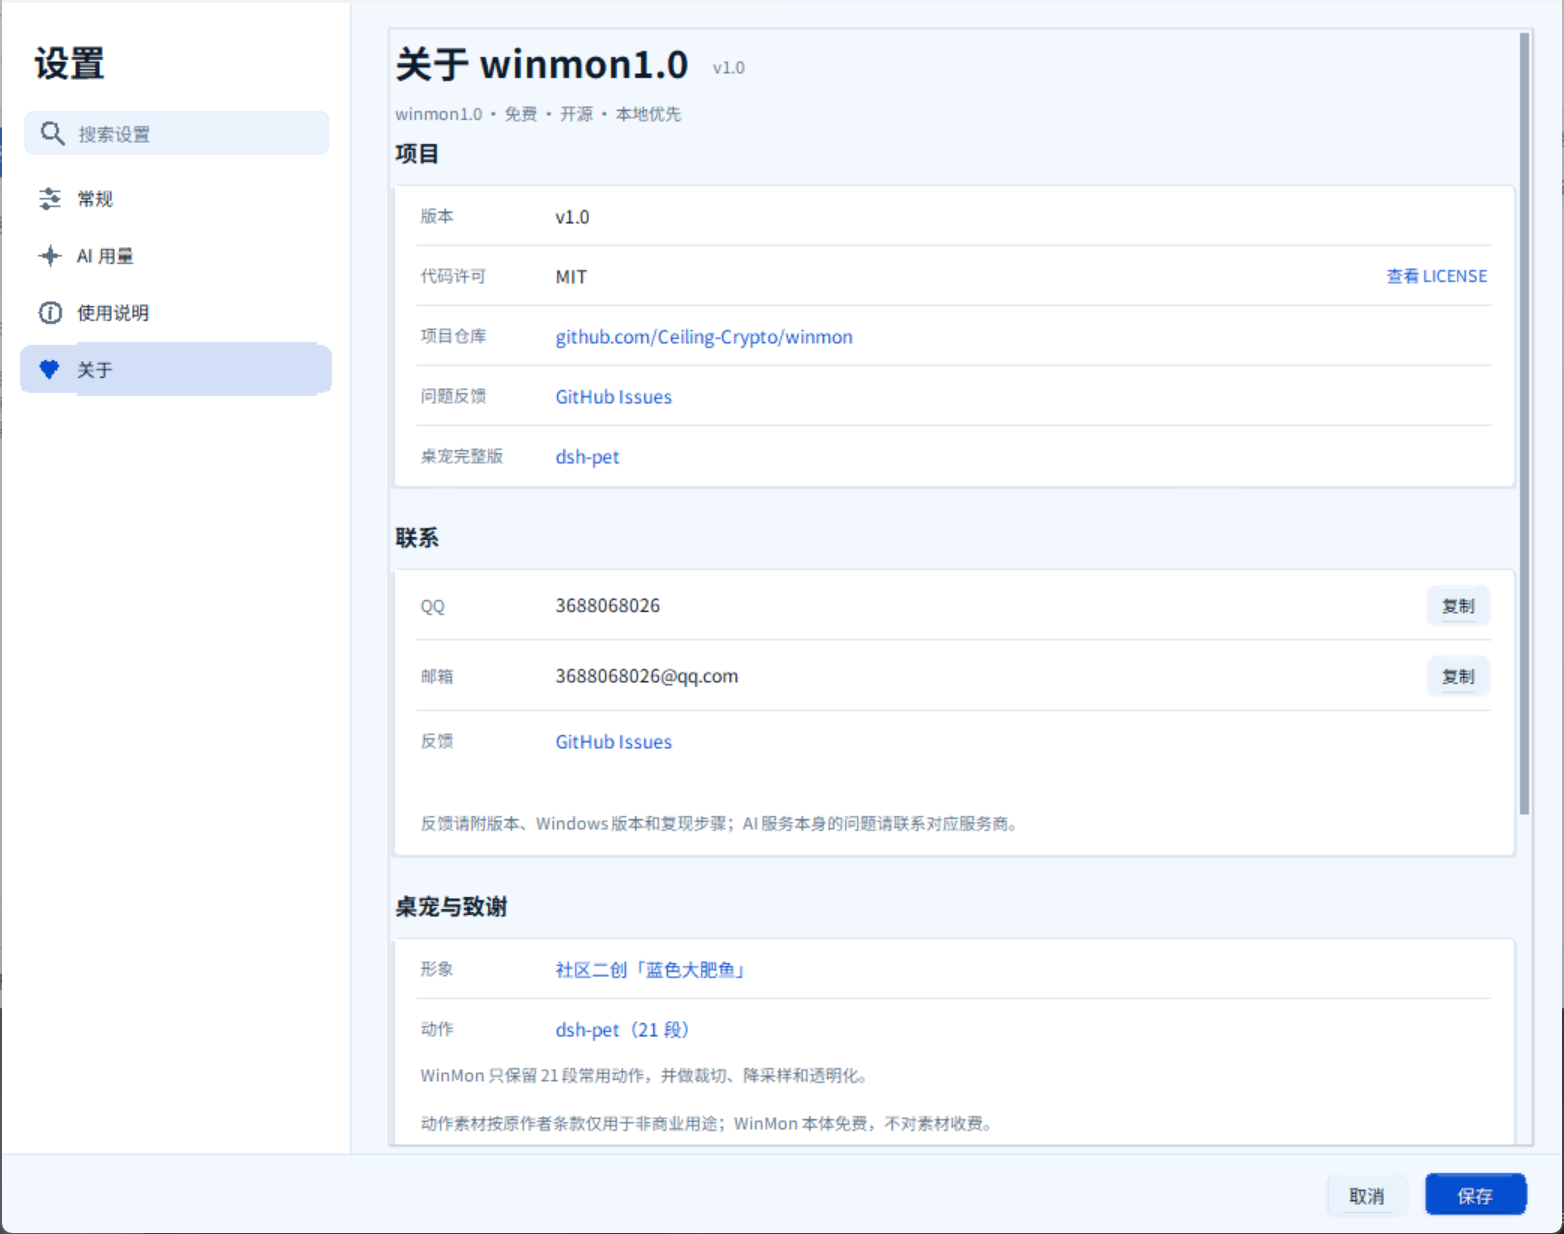
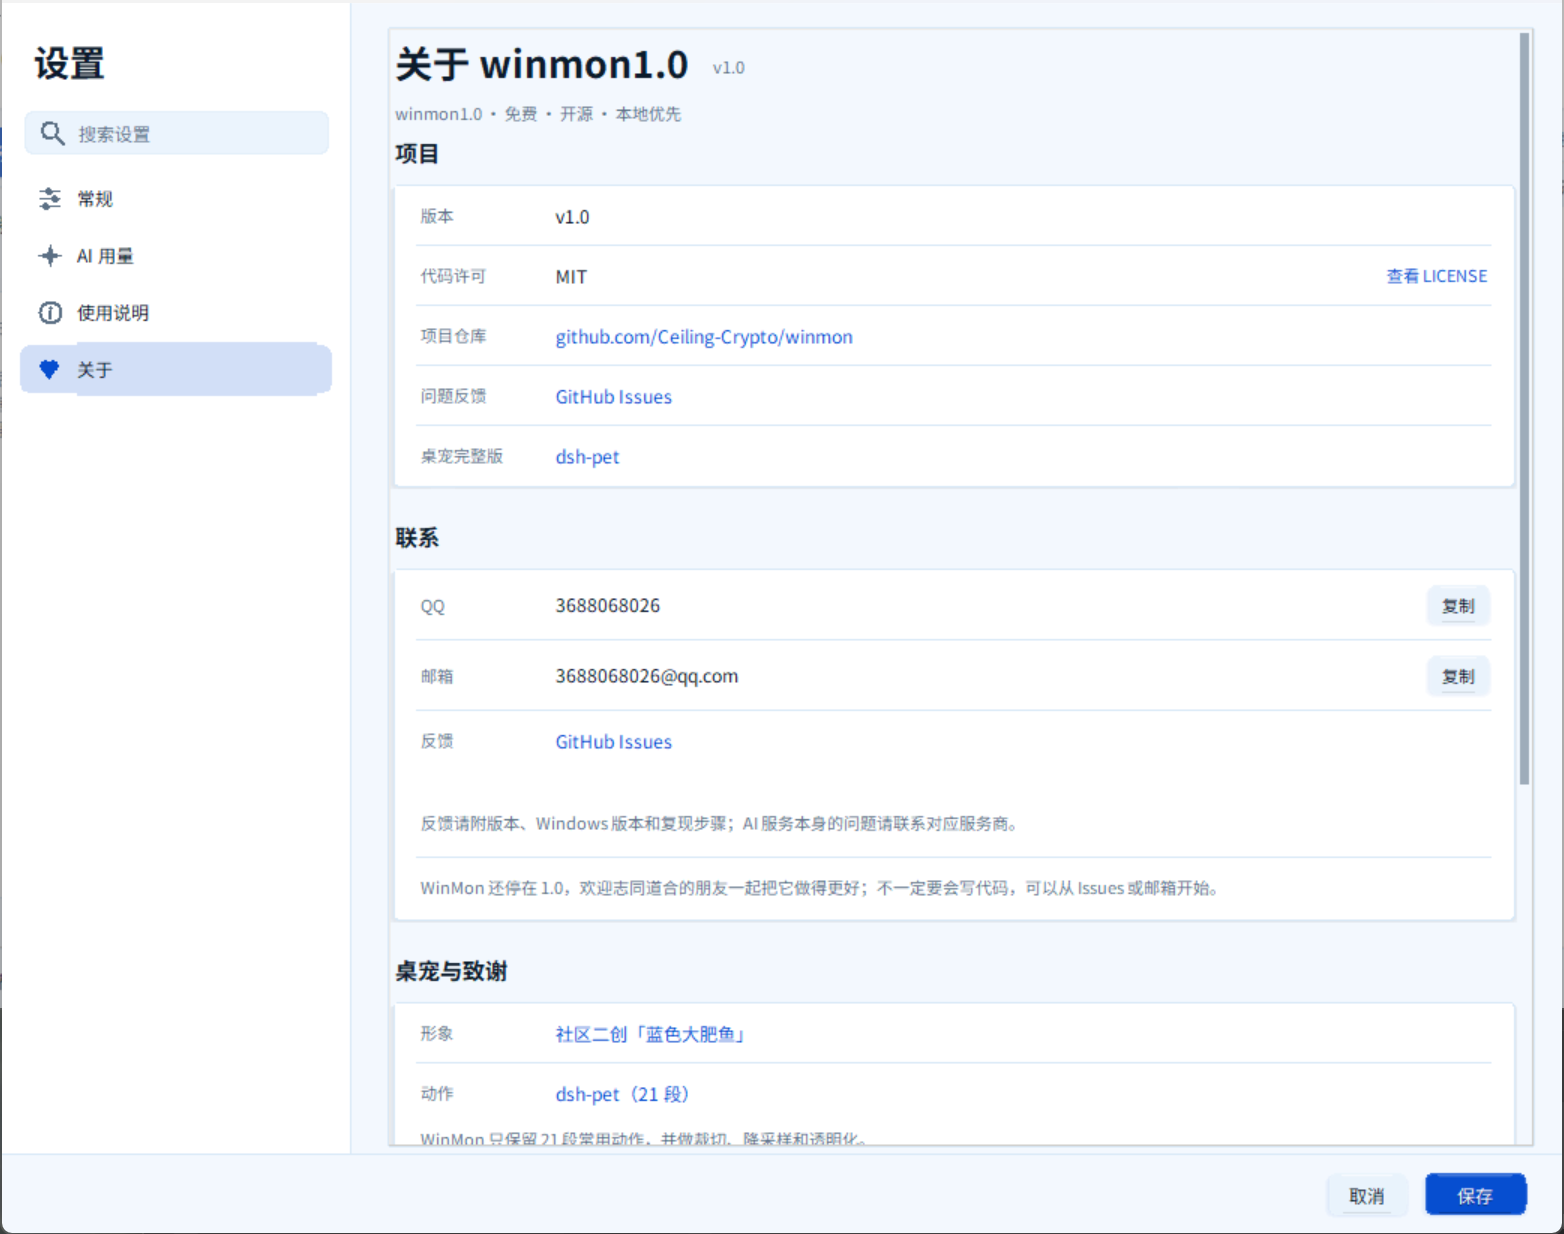
关于页：联系卡加入共建邀请

Changed region(s): [[0.2455, 0.8314, 0.6445, 0.9546], [0.2455, 0.7083, 0.7673, 0.8006]]

diff --git a/winmon.py b/winmon.py
@@ -9602,6 +9602,15 @@ class _AboutPanel:
             "When reporting a bug, include the version, Windows version and "
             "steps to reproduce. For issues with an AI service itself, "
             "contact that provider."))
+        tk.Frame(card, bg=UI_LINE, height=1).pack(
+            fill="x", padx=14, pady=(2, 8))
+        self._para(card, i18n.pick(
+            "WinMon 还停在 1.0，欢迎志同道合的朋友一起把它做得更好；"
+            "不一定要会写代码，可以从 Issues 或邮箱开始。",
+            "WinMon is still 1.0. Like-minded friends are welcome to help "
+            "make it better — you don't have to write code; start with an "
+            "Issue or email."),
+            fg=UI_MUTED, pady=(0, 10))
 
     def _build_privacy(self, wrap) -> None:
         self._section(wrap, i18n.pick("隐私", "Privacy"))

diff --git a/tests/test_b43_edge_settings_privacy.py b/tests/test_b43_edge_settings_privacy.py
@@ -113,6 +113,8 @@ class TestEdgeSettings(unittest.TestCase):
         self.assertIn("3688068026@qq.com", joined)
         self.assertIn("非商业", joined)
         self.assertIn("DeepSeek", joined)
+        self.assertIn("志同道合", joined)
+        self.assertIn("不一定要会写代码", joined)
         self.assertEqual(dlg.about.links["dsh_pet"],
                          "https://github.com/PC2005-cloud/dsh-pet")
         self.assertEqual(dlg.about.links["issues"],

diff --git a/CHANGELOG.md b/CHANGELOG.md
@@ -49,10 +49,12 @@
   条带文件存在、播放/回 idle、睡眠/唤醒、窗口够宽、右键原地换项、
   气泡点外关/点内不关、无 grab/无全屏；
 - `test_b46` / `test_b48` 的窗口宽度断言按动作帧同步；
-- 全量 **1101 用例**，失败 0 / 错误 0，跳过 7，**120.512 秒**；
+- 全量 **1101 用例**，失败 0 / 错误 0，跳过 7，**123.080 秒**；
   `lint_check` 新增 0；`--smoke` 退出 0。
 - 截图：`docs/ui-8.38-pet-menu.png`（右键「动作 ▸」6 类）；
-  `docs/ui-8.37-about.png` 更新为 21 段已接入。
+  `docs/ui-8.37-about.png` 更新为 21 段已接入；
+- 关于页「联系」卡片加一行小字：WinMon 还停在 1.0，欢迎志同道合的朋友
+  一起把它做得更好；不一定要会写代码，可以从 Issues 或邮箱开始。
 
 ### 阶段 8.37（2026-10-23）—— 设置加「关于」：开源声明、联系方式与桌宠素材授权
 

diff --git a/HANDOFF.md b/HANDOFF.md
@@ -3325,9 +3325,11 @@ AI 深蓝卡可见；深色接入窗展开后目视无浅色卡残留。
 **验证**
 - 新增 `test_b49_pet_action_pack.py`（8 用例），覆盖动作包、播放、回 idle、
   窗口宽度、右键原地换项、气泡点外关/点内不关、无 grab/无全屏。
-- 全量 **1101 用例**，失败 0 / 错误 0，跳过 7，**120.512 秒**；
+- 全量 **1101 用例**，失败 0 / 错误 0，跳过 7，**123.080 秒**；
   `lint_check` 新增 0；`--smoke` 退出 0。
 - 截图：`docs/ui-8.38-pet-menu.png`；`docs/ui-8.37-about.png` 已更新。
+- 关于页「联系」卡片加入共建邀请：WinMon 还停在 1.0，欢迎志同道合的朋友
+  一起把它做得更好；不一定要会写代码，可以从 Issues 或邮箱开始。
 
 ### 9.47 阶段 8.37：设置「关于」页、联系方式与桌宠素材授权（2026-10-23）
 
